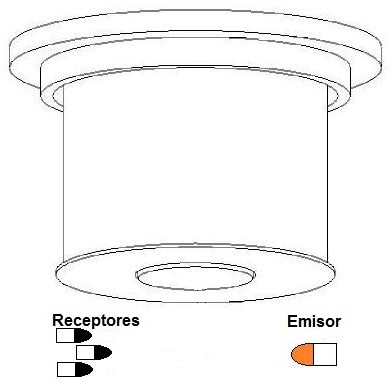
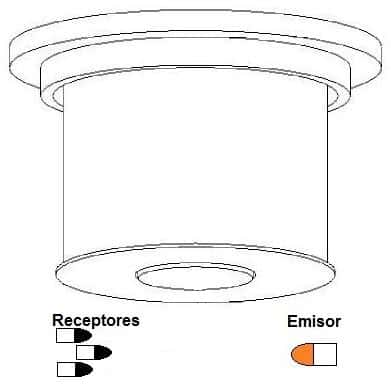
resize: all images for all the project pages are reduced in size.
Former-commit-id: 15de06aedbefe5118c41716d81b609913b7208c6
Former-commit-id: e1a04f88ad24df02d80786046e1555cbf37dc18f

diff --git a/projects/project-aerial.md b/projects/project-aerial.md
@@ -14,8 +14,8 @@ labels:
 summary: I worked for a couple of years in the design and construction of the avionics box of a Mini Robot Aerial Vehicle. One of the aspects I worked with was the integration of a video system to take videos and photos from the air.
 ---
 <div class="ui medium rounded images">
-  <img class="ui medium right floated rounded image" src="../images/aerial/aerial-diagram.png">
-  <img class="ui medium right floated rounded image" src="../images/aerial/aerial-dessert.jpg">
+  <img class="ui medium right floated rounded image" src="../images/aerial/aerial-diagram.jpg">
+  <img class="ui medium right floated rounded image" src="../images/aerial/aerial-desert.jpg">
 </div>
 
 I worked for a couple of years in the design and construction of the avionics box of a Mini Robot Aerial Vehicle. One of the aspects I worked with was the integration of a video system to take videos and photos from the air. The designed system can be divided in two subsystems: the onboard system (video sender), and the ground system (video receptor). The image at the right shows the components integrated to construct this system, which was attached to the mini-helicopter XCell Gas Graphite to take aerial video.

diff --git a/projects/project-eolicgen.md b/projects/project-eolicgen.md
@@ -14,11 +14,13 @@ summary: I designed and built an eolic energy generator. Faraday induction is us
 ---
 
 <div class="ui small rounded images">
-  <img class="ui image" src="../images/eolic/eolic-explosion.png">
+  <img class="ui image" src="../images/eolic/eolic-explosion.jpg">
   <img class="ui image" src="../images/eolic/eolic-model.jpg">
   <img class="ui image" src="../images/eolic/eolic-mechanism.jpg">
   <img class="ui image" src="../images/eolic/eolic-real.jpg">
 </div>
+
+<img class="ui medium right floated rounded image" src="../images/eolic/eolic-diagram.jpg">
 
 The goal of this project was to design and build a device able to convert mechanical energy obtained from the air flow into eletrical energy. In this project I learned basic concepts about mechanism design and applied it in conjuntion with physics and engineering concepts. Faraday induction explains the physical phenomenon behind energy generation: electrical energy can be obtained aplying the Faraday's law in which the induced electromotive force (EMF or electric potential) in any closed circuit is equal to the time rate of change of the magnetic flux through the circuit.
 

diff --git a/projects/project-chime.md b/projects/project-chime.md
@@ -21,7 +21,7 @@ summary: I designed and built a musical device to create music from motion and s
   <img class="ui image" src="../images/chime/chime-wood.jpg">
 </div>
 
-<img class="ui medium right floated rounded image" src="../images/chime/chime-logo.png">
+<img class="ui medium right floated rounded image" src="../images/chime/chime-logo.jpg">
 
 Chime is a musical device to create music from motion and spatial gestures. It uses artificial intelligence and gesture recognition to generate music from multidimensional sensor input. The idea came up the day before a hackathon in Atlanta, Georgia, when a group of four people originated the idea in a bar during a brainstorming session where topics such as music, hardware, artificial intelligence and environment collided with each other. We won the first place with this idea, giving us access to an incubator based in Sillicon Valley and travel tickets for a two week pitch training in San Francisco during September, 2013.
 

diff --git a/projects/project-infusionsystem.md b/projects/project-infusionsystem.md
@@ -1,7 +1,7 @@
 ---
 layout: project
 type: project
-image: images/infusion/infusion-main.png
+image: images/infusion/infusion-main.jpg
 title: Infusion system
 permalink: projects/infusion
 date: 2007
@@ -15,9 +15,9 @@ summary: I designed and built an infusion system to provide liquid medicine to p
 ---
 
 <div class="ui small rounded images">
-  <img class="ui image" src="../images/infusion/infusion-diagram.png">
+  <img class="ui image" src="../images/infusion/infusion-diagram.jpg">
   <img class="ui image" src="../images/infusion/infusion-cad.jpg">
-  <img class="ui image" src="../images/infusion/infusion-schematic.png">
+  <img class="ui image" src="../images/infusion/infusion-schematic.jpg">
   <img class="ui image" src="../images/infusion/infusion-main4.jpg">
 </div>
 
